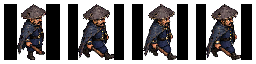
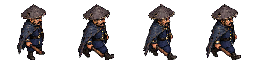
feat: complete Zone 1 combat animation polish

diff --git a/src/runtime/game-runtime.js b/src/runtime/game-runtime.js
@@ -280,7 +280,9 @@ const state = {
   zoneSummaryLevelId: null,
   cameraShakeUntil: 0,
   cameraShakeStrength: 0,
+  hitStopUntil: 0,
   combatFlashUntil: 0,
+  combatImpacts: [],
   highCorruptionWarningShown: false,
   respawnLevelId: "hub",
   respawnSpawn: null,
@@ -1093,37 +1095,48 @@ function loadMonsterSprites() {
         idle: loadSprite("assets/monsters/zone1-enforcer-captain/enforcer-captain-south-idle.png"),
         run: loadSprite("assets/monsters/zone1-enforcer-captain/enforcer-captain-south-walk.png"),
         attack: loadSprite("assets/monsters/zone1-enforcer-captain/enforcer-captain-south-attack.png"),
+        hurt: loadSprite("assets/monsters/zone1-enforcer-captain/enforcer-captain-south-hurt.png"),
+        death: loadSprite("assets/monsters/zone1-enforcer-captain/enforcer-captain-south-death.png"),
       },
       north: {
         idle: loadSprite("assets/monsters/zone1-enforcer-captain/enforcer-captain-north-idle.png"),
         run: loadSprite("assets/monsters/zone1-enforcer-captain/enforcer-captain-north-walk.png"),
         attack: loadSprite("assets/monsters/zone1-enforcer-captain/enforcer-captain-north-attack.png"),
+        hurt: loadSprite("assets/monsters/zone1-enforcer-captain/enforcer-captain-north-hurt.png"),
+        death: loadSprite("assets/monsters/zone1-enforcer-captain/enforcer-captain-north-death.png"),
       },
       east: {
         idle: loadSprite("assets/monsters/zone1-enforcer-captain/enforcer-captain-east-idle.png"),
         run: loadSprite("assets/monsters/zone1-enforcer-captain/enforcer-captain-east-walk.png"),
         attack: loadSprite("assets/monsters/zone1-enforcer-captain/enforcer-captain-east-attack.png"),
+        hurt: loadSprite("assets/monsters/zone1-enforcer-captain/enforcer-captain-east-hurt.png"),
+        death: loadSprite("assets/monsters/zone1-enforcer-captain/enforcer-captain-east-death.png"),
       },
       west: {
         idle: loadSprite("assets/monsters/zone1-enforcer-captain/enforcer-captain-east-idle.png"),
         run: loadSprite("assets/monsters/zone1-enforcer-captain/enforcer-captain-east-walk.png"),
         attack: loadSprite("assets/monsters/zone1-enforcer-captain/enforcer-captain-east-attack.png"),
+        hurt: loadSprite("assets/monsters/zone1-enforcer-captain/enforcer-captain-east-hurt.png"),
+        death: loadSprite("assets/monsters/zone1-enforcer-captain/enforcer-captain-east-death.png"),
       },
     },
     zone1Raider: {
-      idle: loadSprite("assets/monsters/zone1-night-raider/night-raider-walk.png"),
-      run: loadSprite("assets/monsters/zone1-night-raider/night-raider-walk.png"),
-      attack: loadSprite("assets/monsters/zone1-night-raider/night-raider-attack.png"),
+      south: loadZone1DirectionalSprites("assets/monsters/zone1-night-raider/night-raider"),
+      north: loadZone1DirectionalSprites("assets/monsters/zone1-night-raider/night-raider", "north"),
+      east: loadZone1DirectionalSprites("assets/monsters/zone1-night-raider/night-raider", "east"),
+      west: loadZone1DirectionalSprites("assets/monsters/zone1-night-raider/night-raider", "east"),
     },
     zone1Rifleman: {
-      idle: loadSprite("assets/monsters/zone1-colonial-soldier/colonial-patrol-walk.png"),
-      run: loadSprite("assets/monsters/zone1-colonial-soldier/colonial-patrol-walk.png"),
-      attack: loadSprite("assets/monsters/zone1-colonial-soldier/colonial-patrol-attack.png"),
+      south: loadZone1DirectionalSprites("assets/monsters/zone1-colonial-soldier/colonial-patrol"),
+      north: loadZone1DirectionalSprites("assets/monsters/zone1-colonial-soldier/colonial-patrol", "north"),
+      east: loadZone1DirectionalSprites("assets/monsters/zone1-colonial-soldier/colonial-patrol", "east"),
+      west: loadZone1DirectionalSprites("assets/monsters/zone1-colonial-soldier/colonial-patrol", "east"),
     },
     zone1Signalman: {
-      idle: loadSprite("assets/monsters/zone1-signalman/signalman-walk.png"),
-      run: loadSprite("assets/monsters/zone1-signalman/signalman-walk.png"),
-      attack: loadSprite("assets/monsters/zone1-signalman/signalman-attack.png"),
+      south: loadZone1DirectionalSprites("assets/monsters/zone1-signalman/signalman"),
+      north: loadZone1DirectionalSprites("assets/monsters/zone1-signalman/signalman", "north"),
+      east: loadZone1DirectionalSprites("assets/monsters/zone1-signalman/signalman", "east"),
+      west: loadZone1DirectionalSprites("assets/monsters/zone1-signalman/signalman", "east"),
     },
     rifleman: {
       south: {
@@ -1173,6 +1186,16 @@ function loadMonsterSprites() {
       idle: loadSprite("assets/monsters/pixel-crawler/orc-shaman-idle.png"),
       run: loadSprite("assets/monsters/pixel-crawler/orc-shaman-run.png"),
     },
+  };
+}
+
+function loadZone1DirectionalSprites(prefix, direction = "south") {
+  return {
+    idle: loadSprite(`${prefix}-${direction}-idle.png`),
+    run: loadSprite(`${prefix}-${direction}-walk.png`),
+    attack: loadSprite(`${prefix}-${direction}-attack.png`),
+    hurt: loadSprite(`${prefix}-${direction}-hurt.png`),
+    death: loadSprite(`${prefix}-${direction}-death.png`),
   };
 }
 
@@ -1860,9 +1883,13 @@ function initializeLevelRuntime() {
       monster.animationState = "idle";
       monster.facingDirection = "down";
       monster.hurtEndsAt = 0;
+      monster.hurtStartedAt = 0;
       monster.deathStartedAt = 0;
+      monster.deathEndsAt = 0;
       monster.attackVariant = "sweep";
       monster.attackCount = 0;
+      monster.comboFollowUpAt = 0;
+      monster.isComboFollowUp = false;
       monster.commandPulseAt = state.lastTimestamp + (monster.combatProfile?.commandPulse?.intervalMs ?? Infinity);
       monster.commandBuffUntil = 0;
       monster.slowedUntil = 0;
@@ -1931,9 +1958,13 @@ function resetLevelMonstersForRespawn(levelId) {
     monster.animationState = "idle";
     monster.facingDirection = "down";
     monster.hurtEndsAt = 0;
+    monster.hurtStartedAt = 0;
     monster.deathStartedAt = 0;
+    monster.deathEndsAt = 0;
     monster.attackVariant = "sweep";
     monster.attackCount = 0;
+    monster.comboFollowUpAt = 0;
+    monster.isComboFollowUp = false;
     monster.commandPulseAt = state.lastTimestamp + (monster.combatProfile?.commandPulse?.intervalMs ?? Infinity);
     monster.commandBuffUntil = 0;
   }
@@ -1965,7 +1996,9 @@ function resetGameplayProgress() {
   state.zoneSummaryLevelId = null;
   state.cameraShakeUntil = 0;
   state.cameraShakeStrength = 0;
+  state.hitStopUntil = 0;
   state.combatFlashUntil = 0;
+  state.combatImpacts = [];
   state.highCorruptionWarningShown = false;
   state.puzzleState.archiveSequence = 0;
   state.puzzleState.archiveSolved = false;
@@ -2038,6 +2071,15 @@ function createDebugSnapshot() {
     camera: { ...camera },
     questSummary: getZoneProgressText(state.currentLevelId),
     activeMonsterCount: (currentLevel().monsters ?? []).filter((monster) => isMonsterActive(monster)).length,
+    monsters: (currentLevel().monsters ?? []).map((monster) => ({
+      id: monster.id,
+      health: monster.health,
+      defeated: monster.defeated,
+      bossPhase: monster.bossPhase,
+      attackCount: monster.attackCount ?? 0,
+      attackVariant: monster.attackVariant,
+      comboFollowUpAt: monster.comboFollowUpAt ?? 0,
+    })),
     quests: {
       zone1Started: state.quests.zone1Started,
       zone1Delivered: Array.from(state.quests.zone1Delivered),
@@ -2182,6 +2224,14 @@ function installDebugTools() {
       damagePlayer(amount, sourceName);
       return createDebugSnapshot();
     },
+    damageMonster(monsterId, amount = 1) {
+      const monster = currentLevel().monsters.find((entry) => entry.id === monsterId);
+      if (!monster || monster.defeated) {
+        return false;
+      }
+      damageMonster(monster, amount, { ignoreWeakness: true });
+      return createDebugSnapshot();
+    },
     saveNow() {
       return saveGameProgress();
     },
@@ -2284,7 +2334,7 @@ function frame({ now: timestamp, deltaSeconds }) {
     smoothedFps = smoothedFps === 0 ? instantFps : smoothedFps * 0.86 + instantFps * 0.14;
   }
 
-  if (state.mode === "playing") {
+  if (state.mode === "playing" && timestamp >= state.hitStopUntil) {
     updatePlayer(deltaSeconds);
     updateMonsters(deltaSeconds);
     updateEnemyProjectiles(deltaSeconds);
@@ -3683,7 +3733,8 @@ function isTargetInRange(target, range) {
 
 function updateMonsters(deltaSeconds) {
   for (const monster of currentLevel().monsters ?? []) {
-    if (monster.defeated || !isMonsterActive(monster)) {
+    const deathStillVisible = monster.defeated && state.lastTimestamp < (monster.deathEndsAt ?? 0);
+    if ((!deathStillVisible && monster.defeated) || (!monster.defeated && !isMonsterActive(monster))) {
       continue;
     }
 
@@ -3732,14 +3783,22 @@ function updateMonsters(deltaSeconds) {
 
     const attackProfile = monster.attackVariant === "slam" ? combatProfile?.slam : combatProfile?.sweep;
     const telegraphRange = monster.archetype === "ranged" ? 170 : attackProfile?.range ?? MONSTER_TOUCH_RANGE + (monster.isBoss ? 48 : 30);
-    const canStartAttack = state.lastTimestamp - monster.lastContactAt >= MONSTER_CONTACT_DAMAGE_COOLDOWN_MS;
+    const comboFollowUpReady = monster.isBoss && monster.bossPhase >= 2 && state.lastTimestamp >= (monster.comboFollowUpAt ?? Infinity);
+    const canStartAttack = comboFollowUpReady || state.lastTimestamp - monster.lastContactAt >= MONSTER_CONTACT_DAMAGE_COOLDOWN_MS;
 
-    if (!isStunned && !monster.telegraphEndsAt && distance <= telegraphRange && canStartAttack) {
-      monster.attackCount = (monster.attackCount ?? 0) + 1;
-      monster.attackVariant = monster.isBoss && monster.bossPhase >= 2 && monster.attackCount % (combatProfile?.comboEvery ?? Infinity) === 0 ? "slam" : "sweep";
+    if (!isAttacking && !isStunned && !monster.telegraphEndsAt && distance <= telegraphRange && canStartAttack) {
+      if (comboFollowUpReady) {
+        monster.comboFollowUpAt = 0;
+        monster.attackVariant = "sweep";
+        monster.isComboFollowUp = true;
+      } else {
+        monster.attackCount = (monster.attackCount ?? 0) + 1;
+        monster.attackVariant = monster.isBoss && monster.bossPhase >= 2 && monster.attackCount % (combatProfile?.comboEvery ?? Infinity) === 0 ? "slam" : "sweep";
+        monster.isComboFollowUp = false;
+      }
       const selectedAttack = monster.attackVariant === "slam" ? combatProfile?.slam : combatProfile?.sweep;
       monster.telegraphStartsAt = state.lastTimestamp;
-      monster.telegraphEndsAt = state.lastTimestamp + (selectedAttack?.telegraphMs ?? (monster.isBoss ? 520 : 340));
+      monster.telegraphEndsAt = state.lastTimestamp + (comboFollowUpReady ? 180 : selectedAttack?.telegraphMs ?? (monster.isBoss ? 520 : 340));
       monster.attackDirection = getDirectionFromVector(player.x - monster.x, player.y - monster.y);
       monster.animationState = "telegraph";
     }
@@ -3766,6 +3825,10 @@ function updateMonsters(deltaSeconds) {
       } else if (distance <= MONSTER_TOUCH_RANGE + 10) {
         playCombatSfx("batonHit", { volume: monster.isBoss ? 0.38 : 0.32, playbackRate: 0.94 + Math.random() * 0.1 });
         damagePlayer(Math.max(1, Math.round((monster.damage ?? 1) * settings.enemyDamage)), monster.name, monster);
+      }
+
+      if (monster.isBoss && monster.bossPhase >= 2 && monster.attackVariant === "sweep" && !monster.isComboFollowUp) {
+        monster.comboFollowUpAt = monster.attackEndsAt + 90;
       }
     }
   }
@@ -3902,10 +3965,13 @@ function damageMonster(monster, amount, effects = {}) {
   }
   monster.health = Math.max(0, monster.health - amount);
   monster.hitFlashUntil = state.lastTimestamp + 110;
+  monster.hurtStartedAt = state.lastTimestamp;
   monster.hurtEndsAt = state.lastTimestamp + 180;
   playCombatSfx("hurt", { volume: monster.isBoss ? 0.3 : 0.22, playbackRate: 0.94 + Math.random() * 0.1 });
   state.cameraShakeUntil = state.lastTimestamp + (monster.isBoss ? 150 : 90);
   state.cameraShakeStrength = monster.isBoss ? 4 : 2;
+  state.hitStopUntil = Math.max(state.hitStopUntil, state.lastTimestamp + (monster.isBoss ? 42 : 35));
+  state.combatImpacts.push({ x: monster.x, y: monster.y - 10, startedAt: state.lastTimestamp, endsAt: state.lastTimestamp + 180 });
 
   if (effects.stun) {
     monster.stunnedUntil = state.lastTimestamp + (monster.isBoss ? 180 : 520);
@@ -3931,6 +3997,8 @@ function damageMonster(monster, amount, effects = {}) {
 
   monster.defeated = true;
   monster.deathStartedAt = state.lastTimestamp;
+  const deathAnimation = MONSTER_SPRITE_CONFIG[getMonsterArtKey(monster)]?.animations?.death;
+  monster.deathEndsAt = state.lastTimestamp + (deathAnimation?.frameCount ?? 6) * (deathAnimation?.frameDuration ?? 90);
   playCombatSfx("death", { volume: monster.isBoss ? 0.36 : 0.26, playbackRate: monster.isBoss ? 0.82 : 1 });
   saveGameProgress();
 
@@ -5136,13 +5204,24 @@ function render() {
 }
 
 function drawCombatFeedback() {
-  if (state.lastTimestamp >= state.combatFlashUntil) {
-    return;
+  if (state.lastTimestamp < state.combatFlashUntil) {
+    const progress = (state.combatFlashUntil - state.lastTimestamp) / 150;
+    ctx.fillStyle = `rgba(221, 73, 73, ${0.16 * clamp(progress, 0, 1)})`;
+    ctx.fillRect(0, 0, VIEWPORT.width, VIEWPORT.height);
   }
 
-  const progress = (state.combatFlashUntil - state.lastTimestamp) / 150;
-  ctx.fillStyle = `rgba(221, 73, 73, ${0.16 * clamp(progress, 0, 1)})`;
-  ctx.fillRect(0, 0, VIEWPORT.width, VIEWPORT.height);
+  state.combatImpacts = state.combatImpacts.filter((impact) => state.lastTimestamp < impact.endsAt);
+  for (const impact of state.combatImpacts) {
+    const progress = clamp((state.lastTimestamp - impact.startedAt) / (impact.endsAt - impact.startedAt), 0, 1);
+    const size = Math.round(8 + progress * 16);
+    const screen = coordinateSystem.worldToScreen(impact);
+    ctx.save();
+    ctx.globalAlpha = 1 - progress;
+    if (canDrawSprite(effectSprites.sparkle)) {
+      ctx.drawImage(effectSprites.sparkle, Math.round(screen.x - size / 2), Math.round(screen.y - size / 2), size, size);
+    }
+    ctx.restore();
+  }
 }
 
 function drawMiniMap() {
@@ -7960,7 +8039,9 @@ function drawMonster(monster) {
     });
   }
 
-  drawMonsterHealthBar(monster);
+  if (!monster.defeated) {
+    drawMonsterHealthBar(monster);
+  }
 }
 
 function drawArchetypeMonster(monster, palette, x, y) {
@@ -8040,7 +8121,9 @@ function drawMonsterSprite(monster, hitFlash) {
   const config = MONSTER_SPRITE_CONFIG[artKey];
   const spriteSet = monsterSprites[artKey];
   const isAttacking = state.lastTimestamp < (monster.attackEndsAt ?? 0);
-  const animationKey = isAttacking ? "attack" : monster.animationState === "run" ? "run" : "idle";
+  const isDying = monster.defeated && state.lastTimestamp < (monster.deathEndsAt ?? 0);
+  const isHurt = !isDying && state.lastTimestamp < (monster.hurtEndsAt ?? 0);
+  const animationKey = isDying ? "death" : isHurt ? "hurt" : isAttacking ? "attack" : monster.animationState === "run" ? "run" : "idle";
   const animation = config?.animations?.[animationKey] ?? config?.animations?.idle;
   const direction = getMonsterSpriteDirection(monster);
   const sprite = config?.directional
@@ -8053,10 +8136,16 @@ function drawMonsterSprite(monster, hitFlash) {
     return false;
   }
 
-  const animationTime = isAttacking
-    ? Math.max(0, state.lastTimestamp - (monster.attackStartedAt ?? state.lastTimestamp))
+  const startedAt = isDying
+    ? monster.deathStartedAt
+    : isHurt
+      ? monster.hurtStartedAt
+      : monster.attackStartedAt;
+  const isOneShot = isAttacking || isHurt || isDying;
+  const animationTime = isOneShot
+    ? Math.max(0, state.lastTimestamp - (startedAt ?? state.lastTimestamp))
     : state.lastTimestamp + (monster.phase ?? 0) * 1000;
-  const frameIndex = isAttacking
+  const frameIndex = isOneShot
     ? Math.min(animation.frameCount - 1, Math.floor(animationTime / animation.frameDuration))
     : Math.floor(animationTime / animation.frameDuration) % animation.frameCount;
   const attackProgress = isAttacking ? getTimedProgress(monster.attackStartedAt, monster.attackEndsAt) : 0;

diff --git a/src/data/render-config.js b/src/data/render-config.js
@@ -233,9 +233,13 @@ export const MONSTER_SPRITE_CONFIG = {
       idle: { frameWidth: 64, frameHeight: 64, frameCount: 4, frameDuration: 420 },
       run: { frameWidth: 64, frameHeight: 64, frameCount: 4, frameDuration: 110 },
       attack: { frameWidth: 64, frameHeight: 64, frameCount: 4, frameDuration: 65 },
+      hurt: { frameWidth: 64, frameHeight: 64, frameCount: 3, frameDuration: 60 },
+      death: { frameWidth: 64, frameHeight: 64, frameCount: 6, frameDuration: 90 },
     },
   },
   zone1Raider: {
+    directional: true,
+    directionalAnimation: true,
     flipForFacing: true,
     drawWidth: 48,
     drawHeight: 48,
@@ -246,9 +250,13 @@ export const MONSTER_SPRITE_CONFIG = {
       idle: { frameWidth: 64, frameHeight: 64, frameCount: 4, frameDuration: 420 },
       run: { frameWidth: 64, frameHeight: 64, frameCount: 4, frameDuration: 110 },
       attack: { frameWidth: 64, frameHeight: 64, frameCount: 4, frameDuration: 65 },
+      hurt: { frameWidth: 64, frameHeight: 64, frameCount: 3, frameDuration: 60 },
+      death: { frameWidth: 64, frameHeight: 64, frameCount: 6, frameDuration: 90 },
     },
   },
   zone1Rifleman: {
+    directional: true,
+    directionalAnimation: true,
     flipForFacing: true,
     drawWidth: 48,
     drawHeight: 48,
@@ -259,9 +267,13 @@ export const MONSTER_SPRITE_CONFIG = {
       idle: { frameWidth: 64, frameHeight: 64, frameCount: 4, frameDuration: 420 },
       run: { frameWidth: 64, frameHeight: 64, frameCount: 4, frameDuration: 110 },
       attack: { frameWidth: 64, frameHeight: 64, frameCount: 4, frameDuration: 65 },
+      hurt: { frameWidth: 64, frameHeight: 64, frameCount: 3, frameDuration: 60 },
+      death: { frameWidth: 64, frameHeight: 64, frameCount: 6, frameDuration: 90 },
     },
   },
   zone1Signalman: {
+    directional: true,
+    directionalAnimation: true,
     flipForFacing: true,
     drawWidth: 48,
     drawHeight: 48,
@@ -272,6 +284,8 @@ export const MONSTER_SPRITE_CONFIG = {
       idle: { frameWidth: 64, frameHeight: 64, frameCount: 4, frameDuration: 420 },
       run: { frameWidth: 64, frameHeight: 64, frameCount: 4, frameDuration: 110 },
       attack: { frameWidth: 64, frameHeight: 64, frameCount: 4, frameDuration: 65 },
+      hurt: { frameWidth: 64, frameHeight: 64, frameCount: 3, frameDuration: 60 },
+      death: { frameWidth: 64, frameHeight: 64, frameCount: 6, frameDuration: 90 },
     },
   },
   rifleman: {

diff --git a/ASSET_SOURCES.md b/ASSET_SOURCES.md
@@ -46,6 +46,7 @@ This project uses a small subset of free game assets:
   - Editable sources include paired `*-walk.aseprite` and `*-attack.aseprite` files for the patrol, raider, signalman, and captain under `assets/monsters/zone1-*/`.
   - Each source has four separately posed frames tagged as `walk` or `attack`; exports are 64x64 bottom-center anchored strips. They replace only Zone 1's ranged, melee, support, and boss adversaries respectively.
   - Captain directional seed: `assets/monsters/zone1-enforcer-captain/enforcer-captain-directional-source.png`, generated with the built-in image-generation workflow on a magenta chroma key; alpha-cleaned and normalized into south/north/east strips by `scripts/prepare-captain-directional-strips.mjs`. West is deliberately mirrored at runtime from east.
+  - Raider, patrol rifleman, and signalman directional seeds are stored next to their respective sprite strips as `*-directional-source.png`; each was generated with the same built-in workflow, alpha-cleaned, and normalized by `scripts/prepare-captain-directional-strips.mjs`. Their west-facing animation intentionally mirrors the corresponding east strip at runtime.
 - Original zone landmarks
   - Created for this project with the built-in image generation workflow, then background-keyed to transparent PNG.
   - Used for the four persistent zone landmarks in `assets/landmarks/`: storm shelter beacon, archive lens tower, faction standard, and restoration engine.
